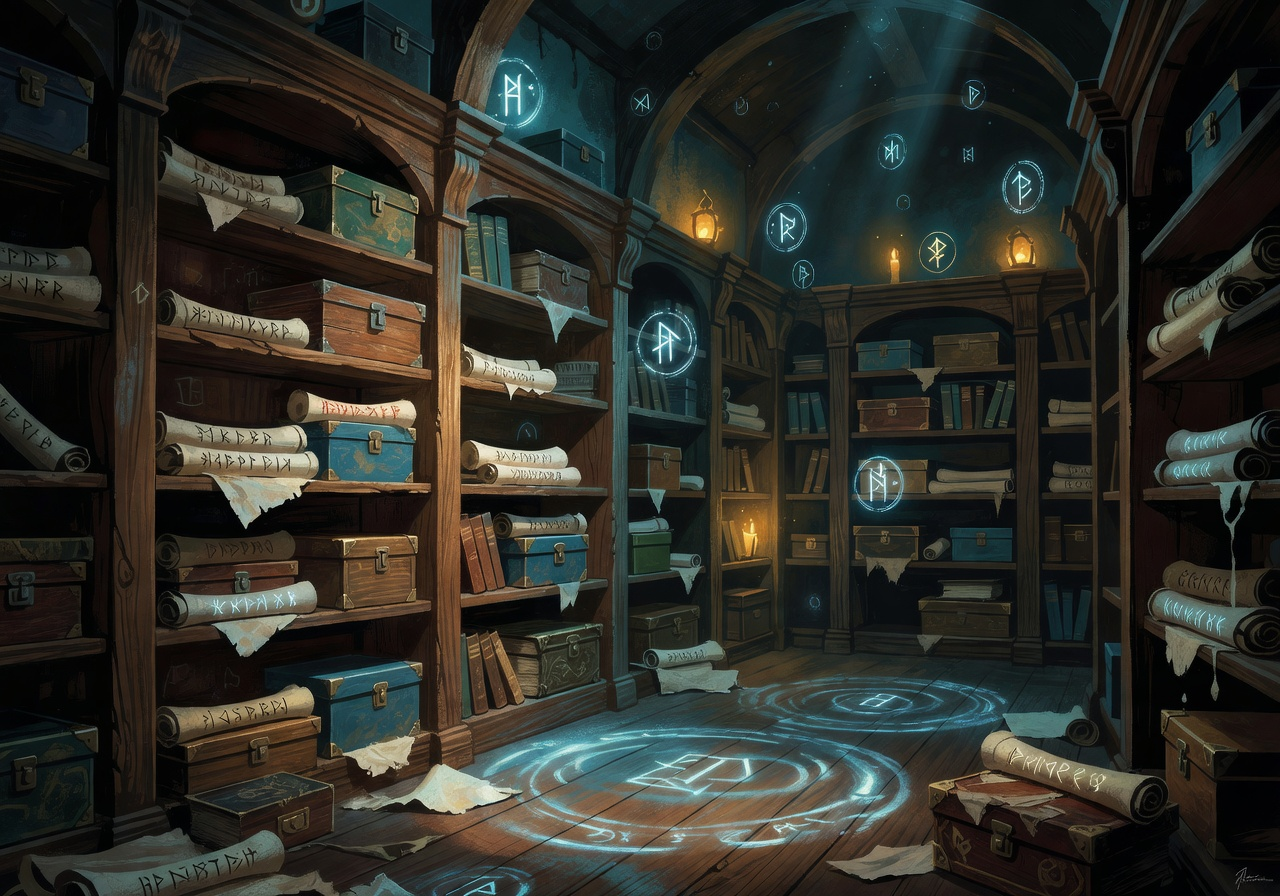
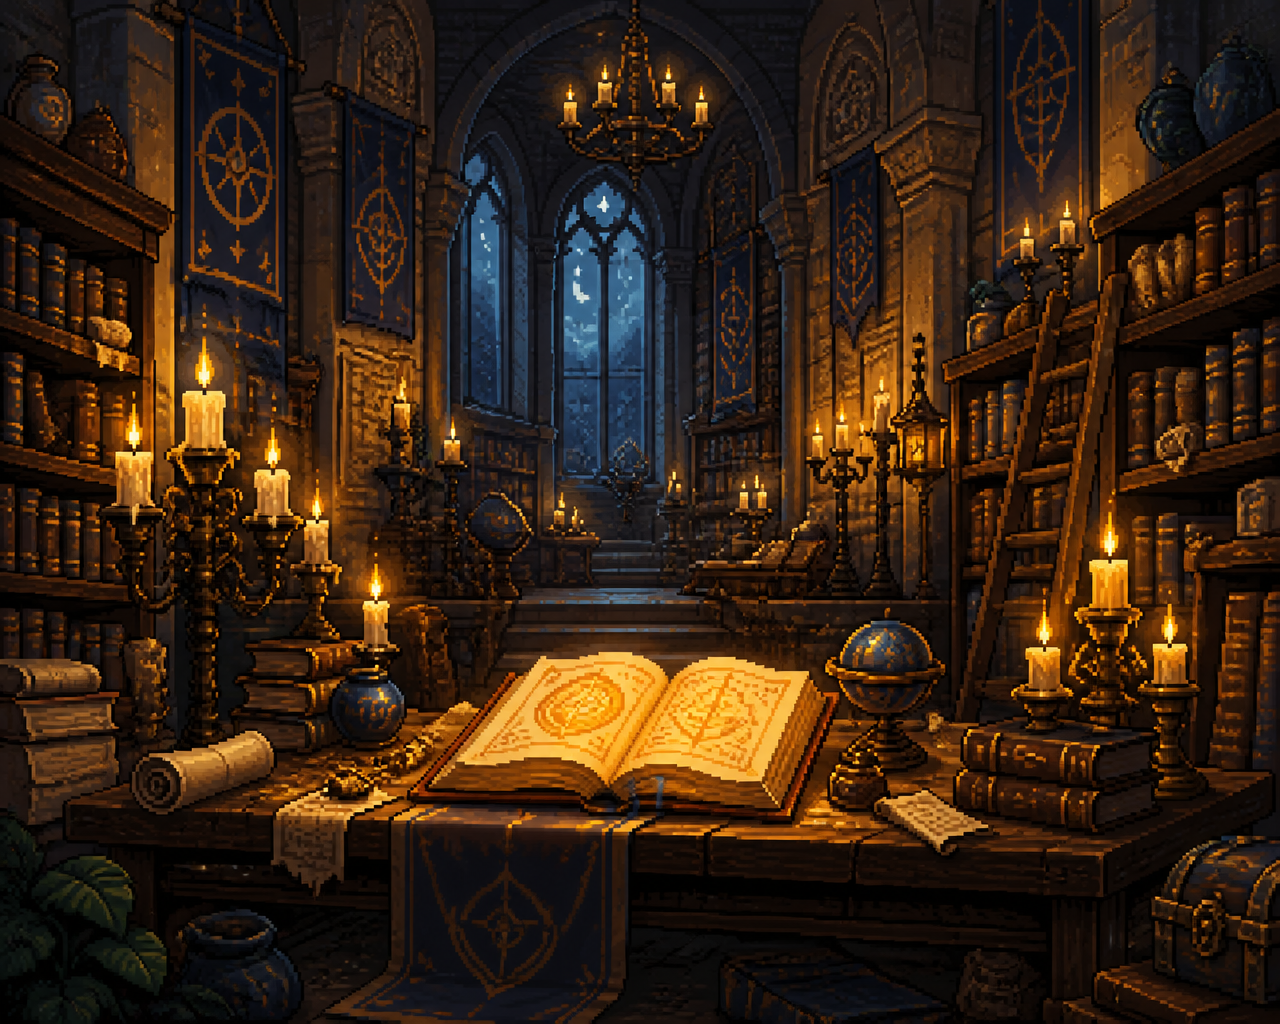
feat(ui): keyword tooltip usa asset baked + polish geral
- KeywordTooltip: quando keyword tem PNG baked (keyword_brace, etc.), exibe
  a imagem diretamente sem painel de texto, título ou fundo redundante
- KeywordTooltip: tamanho do asset baked = 224px (280 -20%)
- PauseScene: botões alinhados (X=400, gap exato 65px entre os 3 primeiros)
- bg_card_library: novo background de scriptorium arcano para a tela Collection
- SKILLS.md: restaurado conteúdo original + adicionadas seções de scripts PIL
- .gitignore: adicionado Skills.md

diff --git a/src/ui/KeywordTooltip.ts b/src/ui/KeywordTooltip.ts
@@ -208,6 +208,41 @@ function mountStandalonePanel(
   anchor: AnchorBounds,
 ): Phaser.GameObjects.Container {
   const panel = scene.add.container(0, 0).setDepth(TOOLTIP_DEPTH);
+
+  // If every keyword has a baked PNG, show the images directly — no panel bg,
+  // no "Keywords" title, no text fallback.
+  const bakedKeys = keywords.map((kw) => {
+    const k = `keyword_${kw.keyword.toLowerCase()}`;
+    return scene.textures.exists(k) ? k : null;
+  });
+
+  if (bakedKeys.every((k) => k !== null)) {
+    const BAKED_W = 224;
+    const GAP_PX = 6;
+    const anchorRight = anchor.x + anchor.w / 2;
+    const anchorLeft  = anchor.x - anchor.w / 2;
+    const SIDE_GAP = 12;
+    let panelX: number;
+    if (anchorRight + SIDE_GAP + BAKED_W <= LAYOUT.canvasWidth) {
+      panelX = anchorRight + SIDE_GAP;
+    } else {
+      panelX = Math.max(4, anchorLeft - SIDE_GAP - BAKED_W);
+    }
+    let cursorY = Math.max(4, anchor.y - anchor.h / 2);
+    for (const key of bakedKeys) {
+      const src = scene.textures.get(key!).getSourceImage() as HTMLImageElement;
+      const displayH = BAKED_W * (src.height / src.width);
+      panel.add(
+        scene.add.image(panelX + BAKED_W / 2, cursorY + displayH / 2, key!)
+          .setDisplaySize(BAKED_W, displayH),
+      );
+      cursorY += displayH + GAP_PX;
+    }
+    panel.setAlpha(0);
+    scene.tweens.add({ targets: panel, alpha: 1, duration: 150, ease: 'Sine.easeOut' });
+    return panel;
+  }
+
   const fontFamily = FONTS.body;
 
   const title = scene.add.text(0, 0, 'Keywords', {

diff --git a/src/scenes/PauseScene.ts b/src/scenes/PauseScene.ts
@@ -35,16 +35,19 @@ export class PauseScene extends Scene {
     this.add.bitmapText(400, 105, 'game_font_white', 'PAUSED', 42).setOrigin(0.5);
 
     const BTN_W = 210;
-    this.makePauseBtn('btn_resume_pause',     401.6, 171.6, BTN_W, 50, () => this.resume());
-    this.makePauseBtn('btn_view_deck_pause',  400.5, 236.8, BTN_W, 50, () => {
+    const BTN_X = 400;
+    const BTN_Y0 = 172;
+    const BTN_GAP = 65;
+    this.makePauseBtn('btn_resume_pause',     BTN_X, BTN_Y0,             BTN_W, 50, () => this.resume());
+    this.makePauseBtn('btn_view_deck_pause',  BTN_X, BTN_Y0 + BTN_GAP,   BTN_W, 50, () => {
       this.scene.pause();
       this.scene.launch(SCENE_KEYS.DECK_CUSTOMIZATION, { parentScene: SCENE_KEYS.PAUSE });
     });
-    this.makePauseBtn('btn_tutorial_pause',   400,   300,   BTN_W, 50, () => {
+    this.makePauseBtn('btn_tutorial_pause',   BTN_X, BTN_Y0 + BTN_GAP*2, BTN_W, 50, () => {
       this.scene.pause();
       this.scene.launch(SCENE_KEYS.TUTORIAL, { replay: true, parentScene: SCENE_KEYS.PAUSE });
     });
-    this.makePauseBtn('btn_abandon_run_pause', 402.6, 432.1, BTN_W, 50, async () => {
+    this.makePauseBtn('btn_abandon_run_pause', BTN_X, BTN_Y0 + BTN_GAP*2 + 130, BTN_W, 50, async () => {
       const mode = (() => { try { return getRun().mode; } catch { return undefined; } })();
       this.registry.set(REGISTRY_KEYS.SAVED_RUN, null);
       stopAllRunScenes(this, SCENE_KEYS.PAUSE);

diff --git a/SKILLS.md b/SKILLS.md
@@ -273,6 +273,72 @@ E atualizar o `frameWidth`/`frameHeight` no Preloader com os valores reais.
 
 ---
 
+## Alinhamento de Sprites pelo Pé (Python + PIL) — scripts avançados
+
+Scripts em `scripts/` para inspecionar e alinhar frames com precisão sub-pixel.
+Todos usam PIL + numpy. Rodar com `python scripts/<nome>.py`.
+
+### `_inspect_feet.py` — Inspecionar posição dos pés por frame
+
+Detecta o pixel mais baixo do personagem (fundo branco como BG) e busca pixels escuros
+(bota/sapato) nas últimas 30 linhas. Útil para diagnosticar onde estão os pés antes de alinhar.
+
+**Saída:** `bottom_row`, topo e sola do pixel escuro com coordenadas e RGB.
+
+**Quando usar:** antes de qualquer alinhamento, para entender a anatomia do frame.
+
+### `_inspect_anchor.py` — Inspecionar âncora da espada/arma
+
+Localiza pixels escuros na zona do topo do personagem (primeiras 150 linhas) e calcula
+a coluna média filtrada por moda (ignora ruído). Serve para encontrar onde a espada está
+em cada frame.
+
+**Saída:** `top`, `bottom`, `espada_x`, `espada_y` por frame.
+
+**Quando usar:** quando o alinhamento precisa ser pela arma, não pelo pé.
+
+### `_align_frame.py` — Alinhar um frame pelo centro horizontal do personagem
+
+Recebe ref, src e out como argumentos de linha de comando. Alinha o centro X do src
+ao centro X da ref. Só desloca horizontalmente (dy=0).
+
+```
+python scripts/_align_frame.py ref.png src.png out.png
+```
+
+### `_align_2frames.py` — Alinhar série de frames pela espada + topo do personagem
+
+Versão sofisticada para frames com fundo transparente (RGBA). Alinha pelo centro X
+da espada (filtrado por moda) e pelo topo do bounding box vertical. Monta spritesheet ao final.
+
+**Parâmetros:** `DARK = 80`, `ALPHA = 128` (configuráveis no topo do script).
+
+---
+
+## Fórmula de Alinhamento de Pés (Phaser)
+
+Para alinhar dois sprites pelo pé na tela do Phaser:
+
+```
+feet_screen_y = sprite_y + (frameH / 2) * scale - foot_margin * scale
+```
+
+- `sprite_y`: posição Y do sprite no Phaser (origin 0.5)
+- `frameH`: altura do frame individual do spritesheet
+- `scale`: escala aplicada no Phaser
+- `foot_margin`: distância em px do centro da imagem até a sola do pé (medir com `_inspect_feet.py`)
+
+**Para igualar dois sprites A e B ao mesmo `feet_screen_y` alvo:**
+```
+sprite_y = target_feet_y - (frameH / 2) * scale + foot_margin * scale
+```
+
+**Exemplo real (warrior vs mage):**
+- warrior: frameH=580, scale=0.6034, foot_margin=107px → feet_y=451.6
+- mage:    frameH=584, scale=0.3357, foot_margin=55px  → feet_y=451.6
+
+---
+
 ## Convenções gerais herdadas (ver CONTEXTO.MD)
 
 - Respostas em português.